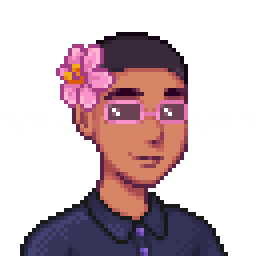
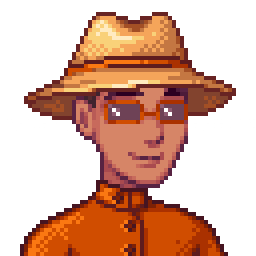
Update profile picture background size and add dark mode support

diff --git a/public/js/script.js b/public/js/script.js
@@ -7,9 +7,11 @@ document.addEventListener('DOMContentLoaded', () => {
 		var tecnologies = document.querySelectorAll('.tecnologia')
 		var cajas_proyecto = document.querySelectorAll('.more-caja')
 		var social = document.querySelectorAll('.flex-item')
+		var imgProfile = document.querySelector('.profile-pic')
 
 		if (document.documentElement.getAttribute('data-theme') == 'sunset') {
 			icono_tema.src = '../svg/sunny.svg'
+			imgProfile.classList.add('profile-pic-dark')
 			document.documentElement.setAttribute('data-theme', 'autumn')
 			document.styleSheets[0].addRule(
 				'::-webkit-scrollbar-thumb',
@@ -49,6 +51,7 @@ document.addEventListener('DOMContentLoaded', () => {
 				.setAttribute('src', '../images/note_white.webp')
 		} else {
 			icono_tema.src = '../svg/moon.svg'
+			imgProfile.classList.remove('profile-pic-dark')
 			document.documentElement.setAttribute('data-theme', 'sunset')
 			document.styleSheets[0].addRule(
 				'::-webkit-scrollbar-thumb',

diff --git a/public/css/style.css b/public/css/style.css
@@ -110,8 +110,11 @@ body {
 		rgba(0, 0, 0, 0.07) 0px 4px 8px, rgba(0, 0, 0, 0.07) 0px 8px 16px,
 		rgba(0, 0, 0, 0.07) 0px 16px 32px, rgba(0, 0, 0, 0.07) 0px 32px 64px;
 	background-image: url('../images/perfil.png');
-	background-size: 110%;
-	background-position: -10px;
+	background-size: 100%;
+}
+
+.profile-pic-dark {
+	background-image: url('../images/perfilrojo.png');
 }
 
 .divider {
